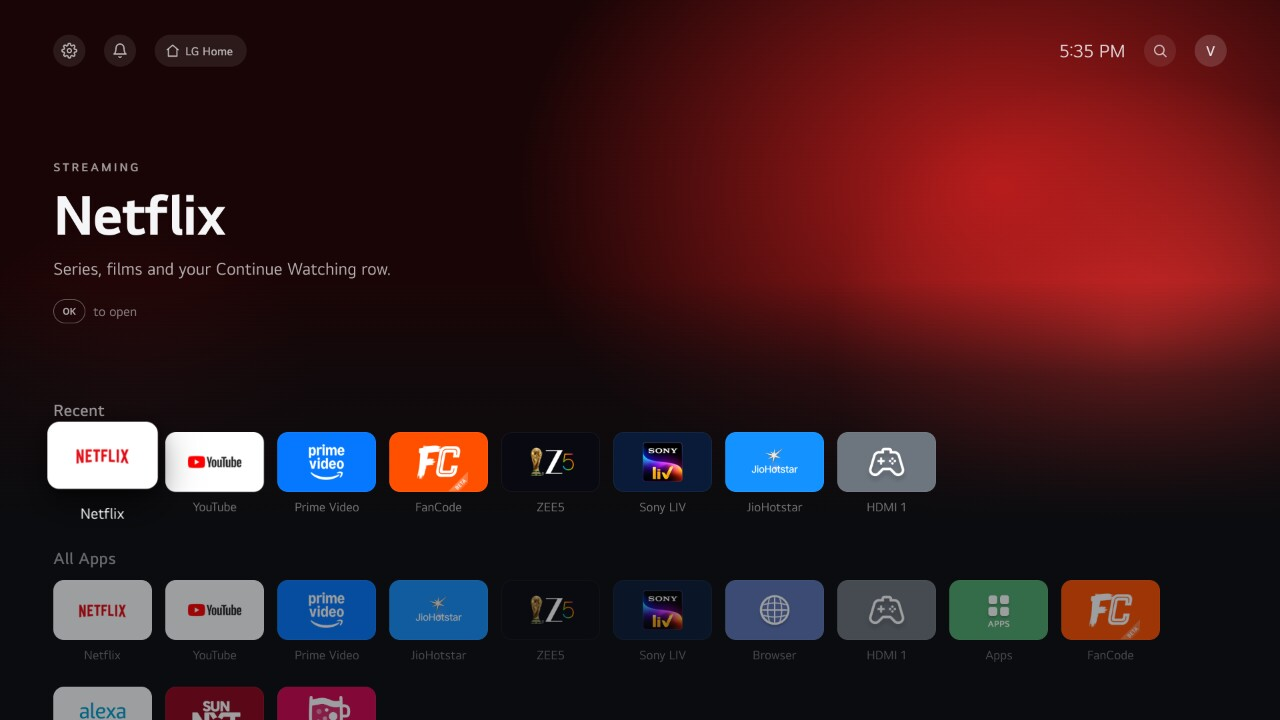
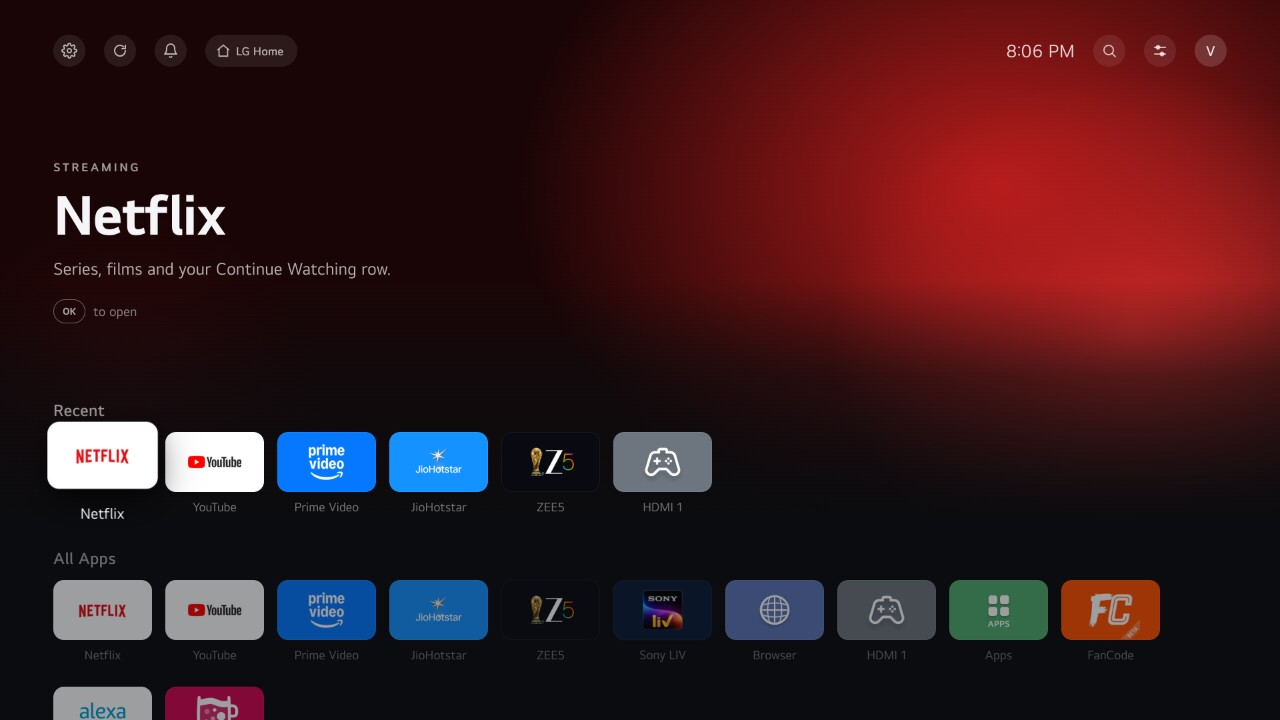
README: new after screenshot, uninstall steps explained
- After screenshot shows the current launcher (restart icon in the top bar)
- Uninstall section: goes to LG's home first, can take up to 2 minutes, retries by itself when the TV is busy

diff --git a/README.md b/README.md
@@ -109,7 +109,8 @@ Some TVs block downloads from the internet. If so, the installer tells you, and 
    curl -fsSL https://raw.githubusercontent.com/c0d3-ninja/opentv-launcher-LG/main/install/uninstall.sh | sh
    ```
    (No internet on the TV? Run `sh install/serve.sh` on your computer and paste the **UNINSTALL** line it prints.)
-2. ✅ It ends with **"Done! OpenTV Launcher is uninstalled and verified."** LG's own home comes back. The Homebrew Channel and root access are not touched.
+2. ⏳ It first takes you to LG's home, then removes everything. This takes up to 2 minutes (if the TV is busy, for example just after switching on, it asks again by itself).
+3. ✅ It ends with **"Done! OpenTV Launcher is uninstalled and verified."** The Homebrew Channel and root access are not touched.
 
 💡 Deleted it from LG's own home instead? That's fine too: within a couple of minutes the launcher's background watcher notices, removes its start-up file and saved data, and stops by itself.
 
